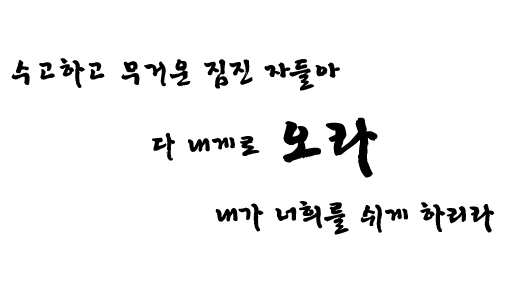
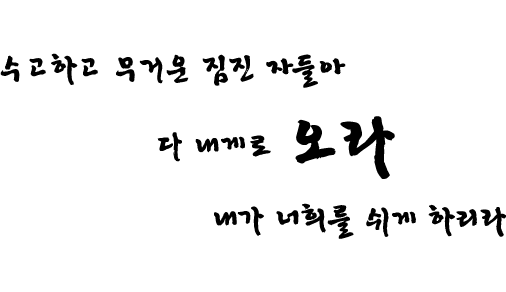
add title

diff --git a/index.html b/index.html
@@ -47,10 +47,10 @@
         <h4>
 <a id="title" class="anchor" aria-hidden="true"><span class="octicon octicon-link"></span></a>2015 안산 청년봉사선교회 친구 초청 송년 모임</h4>
 
-<p>This automatic page generator is the easiest way to create beautiful pages for all of your projects. Author your page content here <a href="https://guides.github.com/features/mastering-markdown/">using GitHub Flavored Markdown</a>, select a template crafted by a designer, and publish. After your page is generated, you can check out the new <code>gh-pages</code> branch locally. If you’re using GitHub Desktop, simply sync your repository and you’ll see the new branch.</p>
+<img src="images/title.png" width="640" alt=""/>
 
 <h3>
-<a id="designer-templates" class="anchor" href="#designer-templates" aria-hidden="true"><span class="octicon octicon-link"></span></a>Designer Templates</h3>
+  <a id="designer-templates" class="anchor" href="#designer-templates" aria-hidden="true"><span class="octicon octicon-link"></span></a>Designer Templates</h3>
 
 <p>We’ve crafted some handsome templates for you to use. Go ahead and click 'Continue to layouts' to browse through them. You can easily go back to edit your page before publishing. After publishing your page, you can revisit the page generator and switch to another theme. Your Page content will be preserved.</p>
 
@@ -73,7 +73,7 @@
       <footer>
         <span class="ribbon-outer">
           <span class="ribbon-inner">
-            <p>Projects by <a href="http://gntc.net">GNTC</a></p>
+          <p>Projects by <a href="http://gntc.net">GNTC</a></p>
           </span>
           <span class="left-tail"></span>
           <span class="right-tail"></span>
